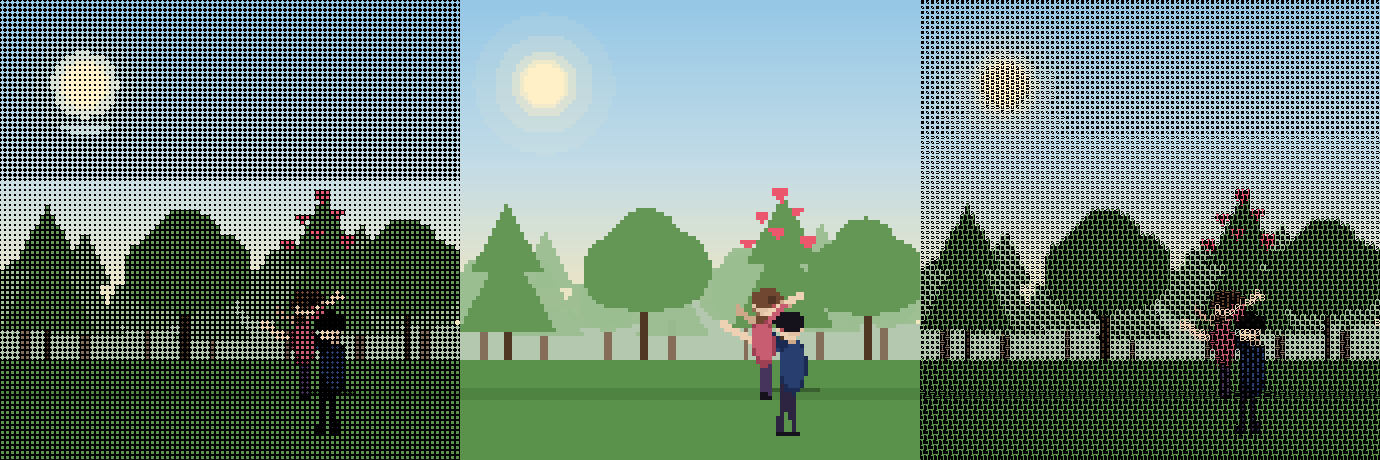
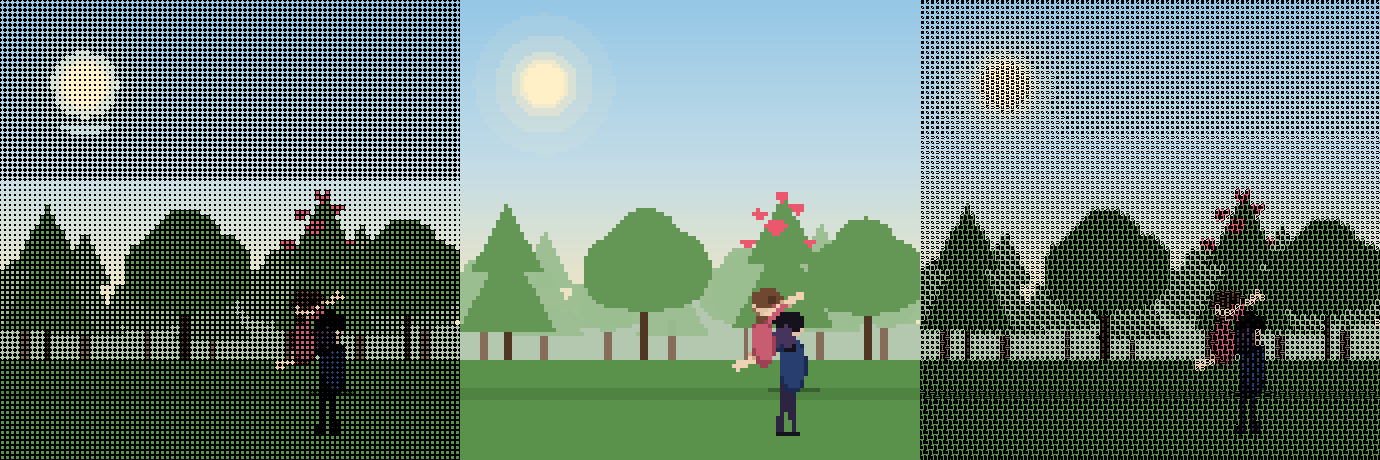
improvements

diff --git a/scenes/run.js b/scenes/run.js
@@ -93,7 +93,8 @@
    * Anchored figure — does not move. He's catching her.
    * (cx, cy) is the centre of his torso.
    * --------------------------------------------------------------------- */
-  function man(D, cx, cy, sc, t) {
+  function man(D, cx, cy, sc, t, catchP) {
+    if (catchP == null) catchP = 0;          // 0 = arms wide open, 1 = arms wrapped around her
     var P = SK.pen(cx, cy, 0, sc, -1);
 
     // ---- LEGS (slightly apart, planted) ---------------------------------
@@ -124,50 +125,52 @@
     D.ellipse(torC[0], torC[1] - 2 * sc, 11 * sc, 23 * sc, 0,
               SHIRT_M[0], SHIRT_M[1], SHIRT_M[2], 1);
 
-    // ---- ARMS — OPEN WIDE, extended forward+slightly up -----------------
-    // Side view: both arms reach LEFT (toward woman) at slight up/down angles.
-    // We draw them as two elongated ellipses (upper arm + forearm).
+    // ---- ARMS — lerp between "open wide" (catchP=0) and "wrapped" (catchP=1)
+    // Side view: arms reach LEFT (toward woman). When she's caught, elbows
+    // tuck in and hands drop to support her at her hip level.
     var armBob = Math.sin(t * 1.6) * 1.2 * sc;
-    // shoulder anchor (his left shoulder, which is the one nearest viewer)
-    var sX = cx - 14 * sc;        // forward of body (toward her)
+    var cp = catchP;
+
+    // ---- near arm (nearest the viewer) ---------------------------------
+    var sX = cx - 14 * sc;
     var sY = cy - 16 * sc;
-    // upper arm reaching forward+slightly UP
-    var elbX = sX - 24 * sc;
-    var elbY = sY - 8 * sc - armBob * 0.4;
-    var handX = elbX - 26 * sc;
-    var handY = elbY - 14 * sc + armBob;
-    // upper arm (shirt sleeve)
-    var midUx = (sX + elbX) / 2, midUy = (sY + elbY) / 2;
-    var ang1 = Math.atan2(elbY - sY, elbX - sX);
-    var len1 = Math.hypot(elbX - sX, elbY - sY);
-    D.ellipse(midUx, midUy, len1 / 2 + 3 * sc, 5 * sc, ang1,
-              SHIRT_M[0], SHIRT_M[1], SHIRT_M[2], 1);
-    // forearm (skin) — sleeves stop at elbow
-    var midFx = (elbX + handX) / 2, midFy = (elbY + handY) / 2;
-    var ang2 = Math.atan2(handY - elbY, handX - elbX);
-    var len2 = Math.hypot(handX - elbX, handY - elbY);
-    D.ellipse(midFx, midFy, len2 / 2 + 2.5 * sc, 4 * sc, ang2,
-              SKIN[0], SKIN[1], SKIN[2], 1);
-    // hand
+    // OPEN pose: arm extended forward + slightly up
+    var elbX0 = sX - 24 * sc;
+    var elbY0 = sY - 8 * sc - armBob * 0.4;
+    var handX0 = elbX0 - 26 * sc;
+    var handY0 = elbY0 - 14 * sc + armBob;
+    // WRAPPED pose: elbow tucks toward body; hand DROPS to cradle her hip
+    var elbX1 = sX - 14 * sc;
+    var elbY1 = sY + 6 * sc;
+    var handX1 = sX - 36 * sc;
+    var handY1 = sY + 16 * sc + armBob * 0.5;
+    var elbX = SK.lerp(elbX0, elbX1, cp);
+    var elbY = SK.lerp(elbY0, elbY1, cp);
+    var handX = SK.lerp(handX0, handX1, cp);
+    var handY = SK.lerp(handY0, handY1, cp);
+    drawArmSeg(D, sX, sY, elbX, elbY, sc, SHIRT_M, 5);
+    drawArmSeg(D, elbX, elbY, handX, handY, sc, SKIN, 4);
     D.disc(handX, handY, 4.5 * sc, SKIN[0], SKIN[1], SKIN[2], 1);
 
-    // far arm — also extended out (behind, slightly higher to read both arms)
+    // ---- far arm (slightly higher to read both arms) -------------------
     var sX2 = cx - 6 * sc;
     var sY2 = cy - 18 * sc;
-    var elb2X = sX2 - 22 * sc;
-    var elb2Y = sY2 - 16 * sc + armBob * 0.4;
-    var hand2X = elb2X - 22 * sc;
-    var hand2Y = elb2Y - 18 * sc - armBob;
-    var midUx2 = (sX2 + elb2X) / 2, midUy2 = (sY2 + elb2Y) / 2;
-    var angU2 = Math.atan2(elb2Y - sY2, elb2X - sX2);
-    var lenU2 = Math.hypot(elb2X - sX2, elb2Y - sY2);
-    D.ellipse(midUx2, midUy2, lenU2 / 2 + 3 * sc, 4.5 * sc, angU2,
-              SHIRT_M_SH[0], SHIRT_M_SH[1], SHIRT_M_SH[2], 1);
-    var midFx2 = (elb2X + hand2X) / 2, midFy2 = (elb2Y + hand2Y) / 2;
-    var angF2 = Math.atan2(hand2Y - elb2Y, hand2X - elb2X);
-    var lenF2 = Math.hypot(hand2X - elb2X, hand2Y - elb2Y);
-    D.ellipse(midFx2, midFy2, lenF2 / 2 + 2.5 * sc, 3.5 * sc, angF2,
-              SKIN_SH[0], SKIN_SH[1], SKIN_SH[2], 1);
+    // OPEN pose
+    var elb2X0 = sX2 - 22 * sc;
+    var elb2Y0 = sY2 - 16 * sc + armBob * 0.4;
+    var hand2X0 = elb2X0 - 22 * sc;
+    var hand2Y0 = elb2Y0 - 18 * sc - armBob;
+    // WRAPPED pose: comes around the FAR side of her back
+    var elb2X1 = sX2 - 16 * sc;
+    var elb2Y1 = sY2 + 2 * sc;
+    var hand2X1 = sX2 - 30 * sc;
+    var hand2Y1 = sY2 + 8 * sc + armBob * 0.3;
+    var elb2X = SK.lerp(elb2X0, elb2X1, cp);
+    var elb2Y = SK.lerp(elb2Y0, elb2Y1, cp);
+    var hand2X = SK.lerp(hand2X0, hand2X1, cp);
+    var hand2Y = SK.lerp(hand2Y0, hand2Y1, cp);
+    drawArmSeg(D, sX2, sY2, elb2X, elb2Y, sc, SHIRT_M_SH, 4.5);
+    drawArmSeg(D, elb2X, elb2Y, hand2X, hand2Y, sc, SKIN_SH, 3.5);
     D.disc(hand2X, hand2Y, 4 * sc, SKIN_SH[0], SKIN_SH[1], SKIN_SH[2], 1);
 
     // ---- NECK -----------------------------------------------------------
@@ -213,59 +216,63 @@
    * --------------------------------------------------------------------- */
   function woman(D, cx, cy, sc, t, phase, phaseT) {
     var P = SK.pen(cx, cy, 0, sc, 1);
-    var stride = Math.sin(t * 7) * 0.8;   // running cadence
+    var stride = Math.sin(t * 13);   // faster running cadence (was t*7)
 
-    // ---- LEGS ------------------------------------------------------------
+    // ---- LEGS — drawn as thigh + shin with a visible knee bend ----------
     if (phase === 'run') {
-      // alternating stride: one leg forward, one back
-      var s = stride;
-      // back leg
-      var bk1 = P(-2, 18), bk2 = P(-10 - s * 4, 56), bk3 = P(-4 - s * 4, 56), bk4 = P(2, 18);
-      D.tri(bk1[0], bk1[1], bk2[0], bk2[1], bk3[0], bk3[1],
-            PANTS_W[0], PANTS_W[1], PANTS_W[2], 1);
-      D.tri(bk1[0], bk1[1], bk3[0], bk3[1], bk4[0], bk4[1],
-            PANTS_W[0], PANTS_W[1], PANTS_W[2], 1);
-      // front leg
-      var fr1 = P(2, 18), fr2 = P(10 + s * 4, 56), fr3 = P(16 + s * 4, 56), fr4 = P(8, 18);
-      D.tri(fr1[0], fr1[1], fr2[0], fr2[1], fr3[0], fr3[1],
-            PANTS_W[0], PANTS_W[1], PANTS_W[2], 1);
-      D.tri(fr1[0], fr1[1], fr3[0], fr3[1], fr4[0], fr4[1],
-            PANTS_W[0], PANTS_W[1], PANTS_W[2], 1);
-      // shoes
-      D.ellipse(cx + (-7 - s * 4) * sc, cy + 58 * sc, 6 * sc, 3 * sc, 0, 22, 18, 28, 1);
-      D.ellipse(cx + (13 + s * 4) * sc, cy + 58 * sc, 6 * sc, 3 * sc, 0, 22, 18, 28, 1);
+      // Two legs running in opposition. Each leg traces an elliptical foot
+      // path; the knee bends MORE when the foot is in the swing (lift) half
+      // of the cycle, giving a high-knee, athletic running silhouette.
+      function runLeg(hipDx, swing) {
+        var hipX = cx + hipDx * sc, hipY = cy + 18 * sc;
+        var lift = Math.max(0, swing);                  // 0..1 during swing-up
+        var footX = cx + (hipDx + swing * 13) * sc;
+        var footY = hipY + (38 - lift * 22) * sc;       // foot lifts off ground
+        // knee is forward of hip and HIGH during swing
+        var kneeX = cx + (hipDx + swing * 5 + 4) * sc;
+        var kneeY = cy + (16 - lift * 11) * sc;
+        drawArmSeg(D, hipX, hipY, kneeX, kneeY, sc, PANTS_W, 5.0);
+        drawArmSeg(D, kneeX, kneeY, footX, footY, sc, PANTS_W, 4.0);
+        D.ellipse(footX, footY + 2 * sc, 6 * sc, 3 * sc, 0, 22, 18, 28, 1);
+      }
+      runLeg(-2, stride);                  // back leg
+      runLeg( 2, -stride);                 // front leg (opposite phase)
     } else if (phase === 'leap') {
-      // legs tucked back (leaping forward), trailing
-      var legAng = SK.lerp(0.0, -0.5, phaseT); // slowly tuck
-      var Pleg = SK.pen(cx, cy, legAng, sc, 1);
-      var bk1 = Pleg(-3, 18), bk2 = Pleg(-14, 50), bk3 = Pleg(-8, 50), bk4 = Pleg(2, 18);
-      D.tri(bk1[0], bk1[1], bk2[0], bk2[1], bk3[0], bk3[1],
-            PANTS_W[0], PANTS_W[1], PANTS_W[2], 1);
-      D.tri(bk1[0], bk1[1], bk3[0], bk3[1], bk4[0], bk4[1],
-            PANTS_W[0], PANTS_W[1], PANTS_W[2], 1);
-      var fr1 = Pleg(2, 18), fr2 = Pleg(-8, 52), fr3 = Pleg(-2, 52), fr4 = Pleg(8, 18);
-      D.tri(fr1[0], fr1[1], fr2[0], fr2[1], fr3[0], fr3[1],
-            PANTS_W[0], PANTS_W[1], PANTS_W[2], 1);
-      D.tri(fr1[0], fr1[1], fr3[0], fr3[1], fr4[0], fr4[1],
-            PANTS_W[0], PANTS_W[1], PANTS_W[2], 1);
-      // shoes
-      var shA = Pleg(-11, 52), shB = Pleg(-5, 52);
-      D.disc(shA[0], shA[1], 3.5 * sc, 22, 18, 28, 1);
-      D.disc(shB[0], shB[1], 3.5 * sc, 22, 18, 28, 1);
-    } else { // caught
-      // legs together, bent slightly, dangling
-      var bk1 = P(-2, 18), bk2 = P(-4, 48), bk3 = P(3, 48), bk4 = P(2, 18);
-      D.tri(bk1[0], bk1[1], bk2[0], bk2[1], bk3[0], bk3[1],
-            PANTS_W[0], PANTS_W[1], PANTS_W[2], 1);
-      D.tri(bk1[0], bk1[1], bk3[0], bk3[1], bk4[0], bk4[1],
-            PANTS_W[0], PANTS_W[1], PANTS_W[2], 1);
-      var fr1 = P(2, 18), fr2 = P(0, 50), fr3 = P(7, 50), fr4 = P(8, 18);
-      D.tri(fr1[0], fr1[1], fr2[0], fr2[1], fr3[0], fr3[1],
-            PANTS_W[0], PANTS_W[1], PANTS_W[2], 1);
-      D.tri(fr1[0], fr1[1], fr3[0], fr3[1], fr4[0], fr4[1],
-            PANTS_W[0], PANTS_W[1], PANTS_W[2], 1);
-      D.disc(cx - 1 * sc, cy + 52 * sc, 3.5 * sc, 22, 18, 28, 1);
-      D.disc(cx + 4 * sc, cy + 52 * sc, 3.5 * sc, 22, 18, 28, 1);
+      // Mid-air leap: knees come forward+up (tucking toward chest as she
+      // arcs into him). Both legs together, slightly offset for parallax.
+      var tuck = SK.easeOutCubic(phaseT);
+      function leapLeg(hipDx, kneeOff, footOff) {
+        var hipX = cx + hipDx * sc, hipY = cy + 18 * sc;
+        var kneeX = cx + (hipDx + 10 + tuck * 4 + kneeOff) * sc;
+        var kneeY = cy + (10 - tuck * 4) * sc;
+        var footX = cx + (hipDx + 4 + footOff) * sc;
+        var footY = cy + (28 - tuck * 6) * sc;
+        drawArmSeg(D, hipX, hipY, kneeX, kneeY, sc, PANTS_W, 5.0);
+        drawArmSeg(D, kneeX, kneeY, footX, footY, sc, PANTS_W, 4.0);
+        D.disc(footX, footY, 3.5 * sc, 22, 18, 28, 1);
+      }
+      leapLeg(-3, 0, -2);                  // back leg
+      leapLeg( 2, 2,  2);                  // front leg (slightly higher knee)
+    } else { // caught — legs LIFT and WRAP around his waist
+      // Knees rise up alongside her torso; feet curl back behind him.
+      // settle ramps quickly so the wrap happens right as she's caught.
+      var settle = SK.easeOutCubic(SK.clamp(phaseT * 2.0, 0, 1));
+      // small kick on first impact, then settles
+      var kick = (1 - settle) * Math.sin(phaseT * Math.PI * 3) * 4;
+      function wrapLeg(hipDx, yLift, footExt) {
+        var hipX = cx + hipDx * sc, hipY = cy + 18 * sc;
+        // knee rises ABOVE hip (legs lifted up at the side of his torso)
+        var kneeX = cx + (hipDx + 14 + settle * 6) * sc;
+        var kneeY = cy + (4 - settle * (16 + yLift) + kick) * sc;
+        // foot wraps further out and slightly down behind him
+        var footX = cx + (hipDx + 22 + settle * (4 + footExt)) * sc;
+        var footY = cy + (16 - settle * (8 + yLift) + kick * 0.5) * sc;
+        drawArmSeg(D, hipX, hipY, kneeX, kneeY, sc, PANTS_W, 5.0);
+        drawArmSeg(D, kneeX, kneeY, footX, footY, sc, PANTS_W, 4.0);
+        D.disc(footX, footY, 3.5 * sc, 22, 18, 28, 1);
+      }
+      wrapLeg(-2, 0, 0);                   // back leg
+      wrapLeg( 2, 3, 2);                   // front leg slightly higher / further
     }
 
     // ---- TORSO (rose shirt) ---------------------------------------------
@@ -371,22 +378,27 @@
            HAIR_M[0], HAIR_M[1], HAIR_M[2], 1);
   }
 
-  // Helper: an arm segment (elongated ellipse) from (x1,y1) to (x2,y2).
-  function drawArmSeg(D, x1, y1, x2, y2, sc, col) {
+  // Helper: a limb segment (elongated ellipse) from (x1,y1) to (x2,y2).
+  // `thick` is the perpendicular half-thickness in sc-units (default 3.5).
+  function drawArmSeg(D, x1, y1, x2, y2, sc, col, thick) {
+    if (thick == null) thick = 3.5;
     var mx = (x1 + x2) / 2, my = (y1 + y2) / 2;
     var ang = Math.atan2(y2 - y1, x2 - x1);
     var len = Math.hypot(x2 - x1, y2 - y1);
-    D.ellipse(mx, my, len / 2 + 2 * sc, 3.5 * sc, ang,
+    D.ellipse(mx, my, len / 2 + 2 * sc, thick * sc, ang,
               col[0], col[1], col[2], 1);
   }
 
-  /* ---- floating heart with bobble -------------------------------------- */
-  function floatHeart(D, x, y, size, t, phase, alpha) {
-    var bob = Math.sin(t * 1.3 + phase) * size * 0.15;
-    var drift = Math.cos(t * 0.8 + phase) * size * 0.10;
-    // subtle pulse
-    var pulse = 1 + 0.08 * Math.sin(t * 2.5 + phase);
-    SK.heart(D, x + drift, y + bob, size * pulse, HEART, alpha);
+  /* ---- floating heart with bobble; `cel` (0..1) ramps the animation up - */
+  function floatHeart(D, x, y, size, t, phase, alpha, cel) {
+    cel = cel || 0;
+    var freqK = 1 + cel * 1.8;        // faster bob/pulse when celebrating
+    var ampK  = 1 + cel * 1.4;        // bigger swings + heart size pulse
+    var bob   = Math.sin(t * 1.3 * freqK + phase) * size * 0.15 * ampK;
+    var drift = Math.cos(t * 0.8 * freqK + phase) * size * 0.10 * ampK;
+    var rise  = cel * size * 0.35 * (0.7 + 0.3 * Math.sin(t * 1.5 + phase));
+    var pulse = 1 + (0.08 + cel * 0.22) * Math.sin(t * 2.5 * freqK + phase);
+    SK.heart(D, x + drift, y + bob - rise, size * pulse, HEART, alpha);
   }
 
   function draw(D, W, H, u, t) {
@@ -482,9 +494,12 @@
     }
 
     /* 7. Draw MAN first (he's behind/anchoring), then WOMAN on top ------- */
-    // Actually: when she's "caught", she should appear in front of him slightly,
-    // but his open arms wrap around her. Draw man first, then woman.
-    man(D, manX, manY - 32 * sc, sc * 1.6, t);
+    // catchProgress ramps as she lands: starts closing slightly near the end
+    // of the leap, fully wrapped during the caught phase.
+    var catchProgress = 0;
+    if (phase === 'leap')   catchProgress = SK.easeInQuad(Math.max(0, (phaseT - 0.6) / 0.4)) * 0.35;
+    else if (phase === 'caught') catchProgress = SK.easeOutCubic(SK.clamp(phaseT * 2.5, 0, 1));
+    man(D, manX, manY - 32 * sc, sc * 1.6, t, catchProgress);
     woman(D, wx, wy - 32 * sc, sc * 1.55, t, phase, phaseT);
 
     /* 8. HEARTS — count ramps with u, each has its own bobble ------------ */
@@ -501,6 +516,8 @@
       [  30, -42,  16],   // upper-right
       [   6, -64,  20]    // top
     ];
+    // celebrate intensity ramps once she's caught (u ~0.78 → 0.96)
+    var cel = SK.smoothstep(0.78, 0.96, u);
     for (var hi = 0; hi < heartCount && hi < slots.length; hi++) {
       var sl = slots[hi];
       var hx = centerHX + sl[0] * sc;
@@ -508,7 +525,7 @@
       // fade-in each heart over a short window
       var birthU = (hi / 6) * 0.80;
       var fade = SK.clamp((u - birthU) / 0.10, 0, 1);
-      floatHeart(D, hx, hy, sl[2] * sc, t, hi * 1.7, fade);
+      floatHeart(D, hx, hy, sl[2] * sc, t, hi * 1.7, fade, cel);
     }
   }
 
